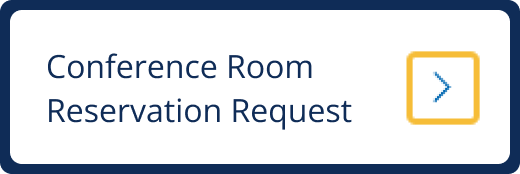
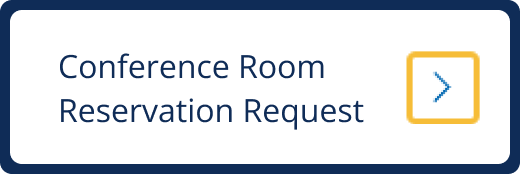
add color change for button

Changed region(s): [[0.0923, 0.546, 0.7077, 0.7471], [0.0923, 0.2874, 0.6462, 0.4598], [0.8, 0.6897, 0.9231, 0.7184]]

diff --git a/src/main/java/edu/wpi/niftynymphs/controllers/HomeController.java b/src/main/java/edu/wpi/niftynymphs/controllers/HomeController.java
@@ -2,10 +2,20 @@ package edu.wpi.niftynymphs.controllers;
 
 import edu.wpi.niftynymphs.navigation.Navigation;
 import edu.wpi.niftynymphs.navigation.Screen;
-import java.awt.*;
+import java.io.FileInputStream;
+import java.io.FileNotFoundException;
+import java.io.InputStream;
 import javafx.fxml.FXML;
+import javafx.scene.image.Image;
+import javafx.scene.image.ImageView;
 
 public class HomeController {
+
+  @FXML ImageView conferenceRoom;
+  @FXML ImageView mealDelivery;
+  @FXML ImageView flowerDelivery;
+  @FXML ImageView furnitureDelivery;
+  @FXML ImageView officeDelivery;
 
   @FXML
   public void initialize() {}
@@ -32,5 +42,86 @@ public class HomeController {
 
   public void navigateSignage() {
     Navigation.navigate(Screen.SIGNAGE);
+  }
+
+  // Button color change when mouse move on the button
+  public void conferenceRoomLight() throws FileNotFoundException {
+    InputStream stream =
+        new FileInputStream(
+            "src/main/resources/edu/wpi/niftynymphs/images/Conference Room Reservation Request Button Light.png");
+    Image newImg = new Image(stream);
+    conferenceRoom.setImage(newImg);
+  }
+
+  public void conferenceRoomDark() throws FileNotFoundException {
+    InputStream stream =
+        new FileInputStream(
+            "src/main/resources/edu/wpi/niftynymphs/images/Conference Room Reservation Request Button.png");
+    Image newImg = new Image(stream);
+    conferenceRoom.setImage(newImg);
+  }
+
+  public void mealDeliveryLight() throws FileNotFoundException {
+    InputStream stream =
+        new FileInputStream(
+            "src/main/resources/edu/wpi/niftynymphs/images/Meal Delivery Request Light.png");
+    Image newImg = new Image(stream);
+    mealDelivery.setImage(newImg);
+  }
+
+  public void mealDeliveryDark() throws FileNotFoundException {
+    InputStream stream =
+        new FileInputStream(
+            "src/main/resources/edu/wpi/niftynymphs/images/Meal Delivery Request.png");
+    Image newImg = new Image(stream);
+    mealDelivery.setImage(newImg);
+  }
+
+  public void flowerDeliveryDark() throws FileNotFoundException {
+    InputStream stream =
+        new FileInputStream(
+            "src/main/resources/edu/wpi/niftynymphs/images/Flower Delivery Request.png");
+    Image newImg = new Image(stream);
+    flowerDelivery.setImage(newImg);
+  }
+
+  public void flowerDeliveryLight() throws FileNotFoundException {
+    InputStream stream =
+        new FileInputStream(
+            "src/main/resources/edu/wpi/niftynymphs/images/Flower Delivery Request Light.png");
+    Image newImg = new Image(stream);
+    flowerDelivery.setImage(newImg);
+  }
+
+  public void furnitureDeliveryLight() throws FileNotFoundException {
+    InputStream stream =
+        new FileInputStream(
+            "src/main/resources/edu/wpi/niftynymphs/images/Furniture Delivery Request Light.png");
+    Image newImg = new Image(stream);
+    furnitureDelivery.setImage(newImg);
+  }
+
+  public void furnitureDeliveryDark() throws FileNotFoundException {
+    InputStream stream =
+        new FileInputStream(
+            "src/main/resources/edu/wpi/niftynymphs/images/Furniture Delivery Request.png");
+    Image newImg = new Image(stream);
+    furnitureDelivery.setImage(newImg);
+  }
+
+  public void officeDeliveryLight() throws FileNotFoundException {
+    InputStream stream =
+        new FileInputStream(
+            "src/main/resources/edu/wpi/niftynymphs/images/Office Supplies Purchase and Delivery Request Light.png");
+    Image newImg = new Image(stream);
+    officeDelivery.setImage(newImg);
+  }
+
+  public void officeDeliveryDark() throws FileNotFoundException {
+    InputStream stream =
+        new FileInputStream(
+            "src/main/resources/edu/wpi/niftynymphs/images/Office Supplies Purchase and Delivery Request.png");
+    Image newImg = new Image(stream);
+    officeDelivery.setImage(newImg);
   }
 }
